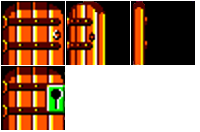
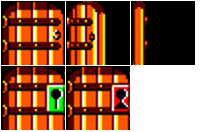
Enabled player to unlock doors, even without the key in the inventory.

Changed region(s): [[0.33, 0.4848, 0.66, 1.0]]

diff --git a/src/dragonscurse/area.cpp b/src/dragonscurse/area.cpp
@@ -1,6 +1,7 @@
 #include <string.h>
 #include "phoboz/ctrl.h"
 #include "actor.h"
+#include "world.h"
 #include "area.h"
 
 Area::Area(const char *name, const char *type,
@@ -25,20 +26,26 @@ Area::Area(const char *name, const char *type,
     m_frame = get_attribute("open_start");
 }
 
-void Area::set_lock(WorldDB::LockType lock)
+void Area::world_initialize(World *world)
 {
-    if (m_lock_id) {
-        m_state = StateLocked;
-        switch(m_lock) {
-            case WorldDB::LockTypeGreen:
-                m_frame = get_attribute("green_lock");
-                break;
+    WorldDB *db = world->get_db();
 
-            case WorldDB::LockTypeRed:
-                m_frame = get_attribute("red_lock");
-                break;
+    if (m_lock_id) {
+        WorldDB::LockType lockType = db->get_lock_type(m_lock_id,
+                                                       world->get_filename());
+        if (lockType != WorldDB::LockTypeNone) {
+            m_state = StateLocked;
+            switch(lockType) {
+                case WorldDB::LockTypeGreen:
+                    m_frame = get_attribute("green_lock");
+                    break;
+
+                case WorldDB::LockTypeRed:
+                    m_frame = get_attribute("red_lock");
+                    break;
+            }
+            m_lock_type = lockType;
         }
-        m_lock = lock;
     }
 }
 
@@ -98,6 +105,31 @@ void Area::move(Map *map)
                     m_frame = get_attribute("open_start");
                     m_state = StateOpen;
                 }
+            }
+        }
+    }
+}
+
+void Area::move_unlock(World *world)
+{
+    if (m_type == TypeUser) {
+        if (m_state == StateLocked) {
+            int input = get_input();
+            if (input & PRESS_UP) {
+                if (m_open_timer.expired(get_attribute("open_time"))) {
+                    m_open_timer.reset();
+
+                    // Unlock in database
+                    WorldDB *db = world->get_db();
+                    db->unlock(m_lock_id, world->get_filename());
+
+                    // Mark as unlocked
+                    m_state = StateIdle;
+                    m_frame = get_attribute("open_start");
+                }
+            }
+            else {
+                m_open_timer.reset();
             }
         }
     }

diff --git a/src/dragonscurse/world.cpp b/src/dragonscurse/world.cpp
@@ -49,6 +49,7 @@ World::World(Map *map, WorldDB *db, bool load_music)
                                  obj->GetHeight(),
                                  prop);
             if (object) {
+                object->world_initialize(this);
                 m_objects.push_back(object);
             }
             else {
@@ -114,25 +115,20 @@ Area* World::move(Player *player,
         Object *object = *it;
 
         if (object->get_visible(m_map, clip_x, clip_y, clip_w, clip_h)) {
-
-            // Move object
-            object->move(m_map);
-
             Object::Type object_type = object->get_type();
 
             // Handle area objects
             if (object_type == Object::TypeArea) {
                 Area *area = (Area *) object;
 
-                // Lock area if in world lock database or check if inside area
-                if (true/* TODO: !area->is_locked()*/) {
-                    WorldDB::LockType lockType =
-                        m_db->get_lock_type(area->get_lock_id(),
-                                            m_map->get_filename().c_str());
-                    if (lockType != WorldDB::LockTypeNone) {
-                        area->set_lock(lockType);
-                    }
-                    else if (area->inside(player)) {
+                if (area->is_locked()) {
+                    // TODO: Check that the player actually has the key
+                    area->move_unlock(this);
+                }
+                else {
+                    area->move(m_map);
+
+                    if (area->inside(player)) {
                         result = area;
                     }
                 }
@@ -141,6 +137,8 @@ Area* World::move(Player *player,
             // Handle actor object
             else if (object_type == Object::TypeEnemy) {
                 Actor *actor = (Actor *) object;
+
+                actor->move(m_map);
                 actor->set_reference(player->get_front(), player->get_y());
                 if (player->check_collision(actor)) {
                     if (!actor->get_invisible()) {

diff --git a/src/dragonscurse/object.h b/src/dragonscurse/object.h
@@ -7,6 +7,8 @@
 #include "phoboz/sprite.h"
 #include "phoboz/map.h"
 
+class World;
+
 class Object {
 public:
     enum Type { TypePlayer, TypeEnemy, TypeBullet, TypeArea };
@@ -28,6 +30,10 @@ public:
     bool load(const char *fn);
     bool get_loaded() const { return m_loaded; }
     virtual void initialize() { }
+
+    // Only called when objects are initialize from world
+    virtual void world_initialize(World *world) { }
+
     Type get_type() const { return m_type; }
     int get_x() const { return m_x; }
     int get_y() const { return m_y; }
@@ -35,9 +41,11 @@ public:
     const Sprite* get_sprite() const { return m_spr; }
     int get_image_width() const { return m_spr->get_image_width(); }
     int get_image_height() const { return m_spr->get_image_height(); }
+
     void set_x(int value) { m_x = value; }
     void set_y(int value) { m_y = value; }
     void set_reference(int x, int y) { m_xref = x; m_yref = y; }
+
     int  get_attribute(const char *name) const;
     void set_attribute(const char *name, int value) {
         m_attributes[std::string(name)] = value;
@@ -49,6 +57,7 @@ public:
                                       object->m_spr, object->m_frame,
                                       object->m_x, object->m_y);
     }
+
     virtual void move(Map *map) = 0;
     virtual void draw(SDL_Surface *dest, Map *map,
                       int clip_x, int clip_y, int clip_w, int clip_h) {

diff --git a/src/dragonscurse/area.h b/src/dragonscurse/area.h
@@ -7,6 +7,7 @@
 #include "world_db.h"
 
 class Actor;
+class World;
 
 class Area : public Object {
 public:
@@ -15,8 +16,7 @@ public:
 
     Area(const char *name, const char *type,
          int x, int y, int w, int h, int lock_id);
-
-    void set_lock(WorldDB::LockType lock);
+    virtual void world_initialize(World *world);
 
     bool inside(Actor *actor);
 
@@ -33,7 +33,9 @@ public:
 
     virtual bool get_visible(Map *map, int clip_x, int clip_y,
                              int clip_w, int clip_h) const { return true; }
+
     virtual void move(Map *map);
+    void move_unlock(World *world);
     virtual void draw(SDL_Surface *dest, Map *map,
                       int clip_x, int clip_y, int clip_w, int clip_h);
 
@@ -42,7 +44,7 @@ private:
     Type m_type;
     int m_w, m_h;
     int m_lock_id;
-    WorldDB::LockType m_lock;
+    WorldDB::LockType m_lock_type;
     State m_state;
     Timer m_open_timer;
     Timer m_anim_timer;

diff --git a/src/dragonscurse/world.h b/src/dragonscurse/world.h
@@ -13,6 +13,10 @@
 class World {
 public:
     World(Map *map, WorldDB *db, bool load_music = true);
+
+    WorldDB* get_db() const { return m_db; }
+    const char* get_filename() const { return m_map->get_filename().c_str(); }
+
     bool start();
     void end();
     Area* move(Player *player,
